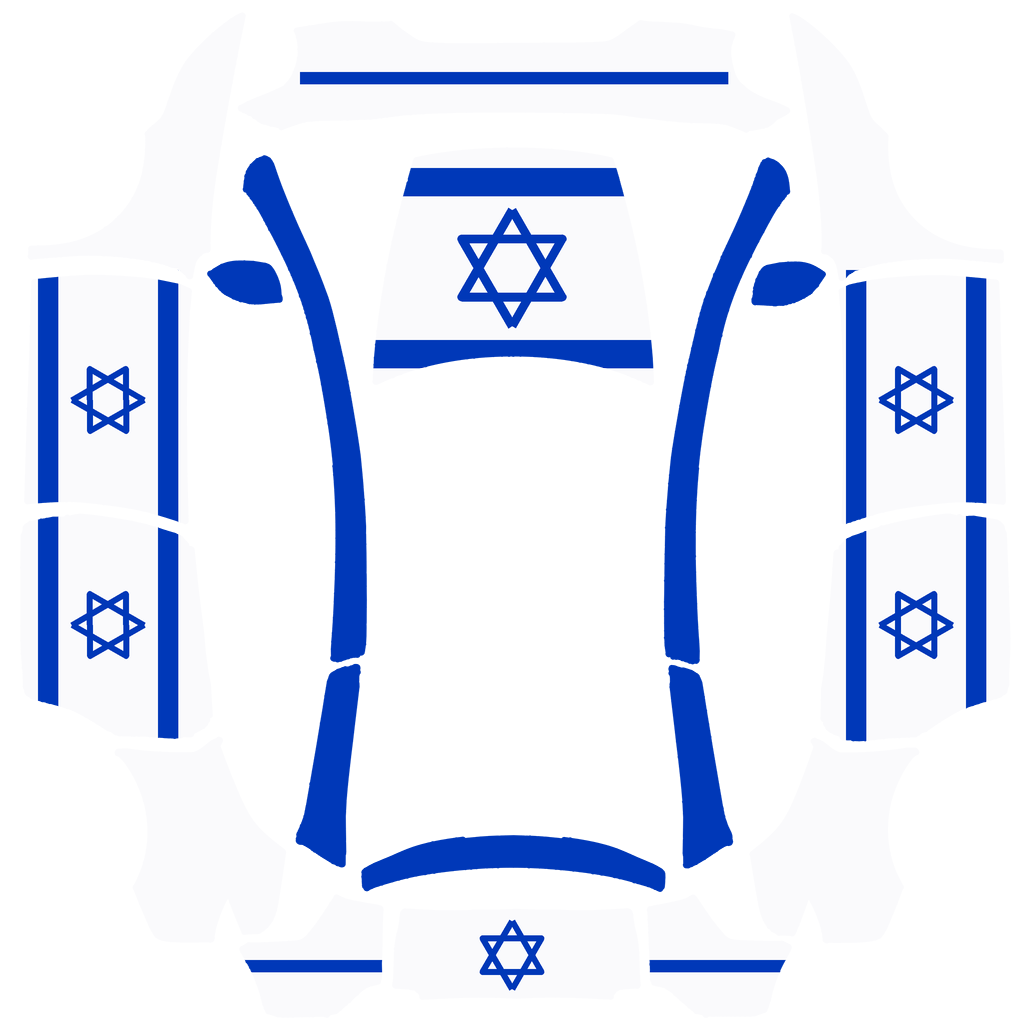
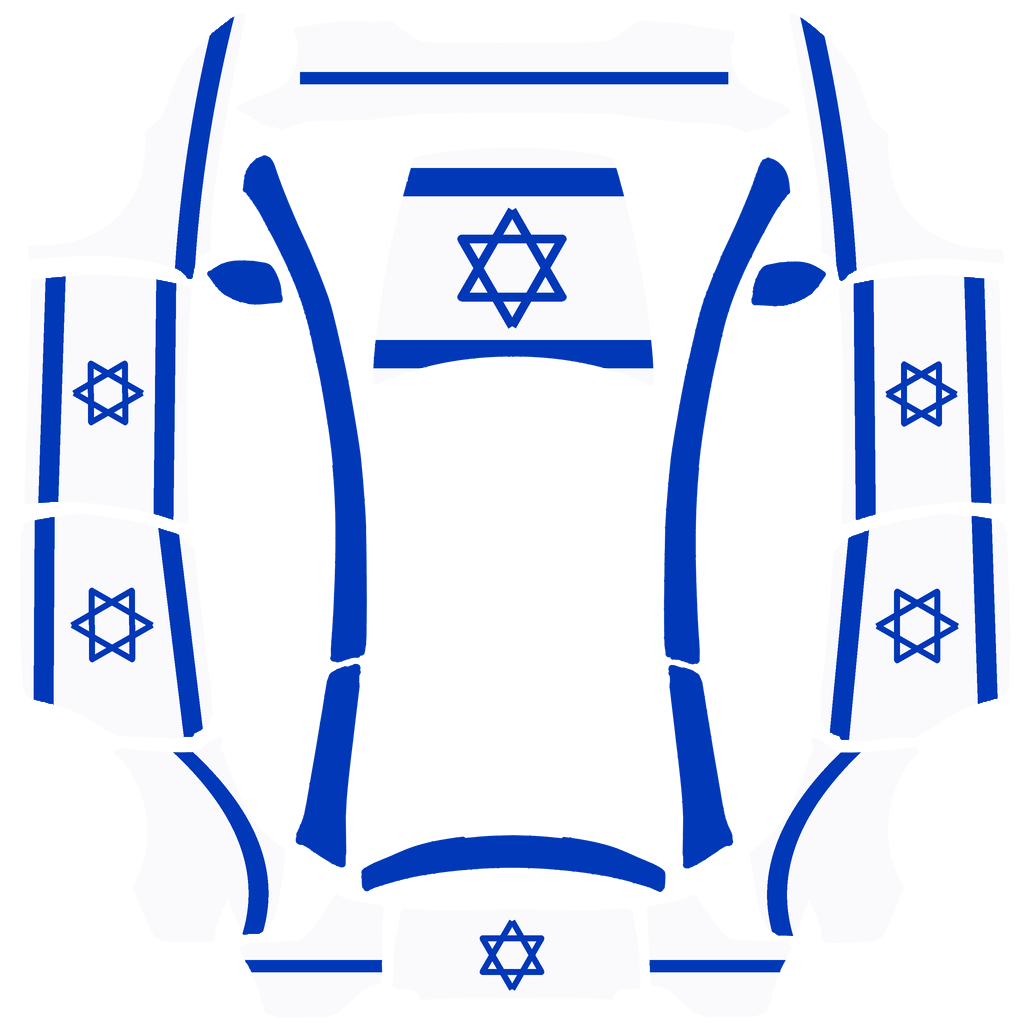
Israel wrap: run side stripes full length and align them with body lines
Claude-Session: https://claude.ai/code/session_01QjhVmvmTN63v33HtuayNfj

diff --git a/scripts/make_israel.py b/scripts/make_israel.py
@@ -38,13 +38,73 @@ magen_david(512, 268, 58, 9)
 # --- Front bumper (top wide panel): thin blue accent stripe --------------
 rect(300, 72, 728, 84)
 
-# --- Doors, both sides: stripes run along the car, star between them -----
-for x_a, x_b, cx in ((38, 58, 108), (966, 986, 916)):
-    # x mirrored for right side
-    for xa, xb in ((x_a, x_b), (x_a + 120 if x_a < 500 else x_a - 120, x_b + 120 if x_a < 500 else x_b - 120)):
-        rect(xa, 270, xb, 745)
-    for cy in (400, 625):     # front door, rear door
-        magen_david(cx, cy, 36, 6, rot=math.pi / 2)
+# --- Sides: two flag stripes running the full length of the car ---------
+# In the template, each side panel's inner edge (toward the sheet centre) is the
+# beltline / hood line and its outer edge is the rocker. Following those edges row
+# by row keeps the stripes parallel to the body lines and lets the upper stripe
+# carry on through the front fender and rear quarter panel.
+from scipy import ndimage
+lab, _ = ndimage.label(alpha > 128)
+lab3 = np.repeat(np.repeat(lab, S, 0), S, 1)
+stripe = np.zeros((H, W), bool)
+TOP_OFF, BOT_OFF, THICK = 12, 14, 20     # px (1024 scale)
+
+def comp(seed):
+    return lab[seed[1], seed[0]]
+
+SIDES = {
+    "left":  dict(fender=(209, 176), doors=[(166, 393), (162, 625)], quarter=(203, 852)),
+    "right": dict(fender=(873, 178), doors=[(872, 394), (945, 626)], quarter=(785, 853)),
+}
+star_spots = []
+for side, parts in SIDES.items():
+    left = side == "left"
+    ids_top = [comp(parts["fender"]), *map(comp, parts["doors"]), comp(parts["quarter"])]
+    ids_bot = list(map(comp, parts["doors"]))
+    def edge_fit(cid, use_inner, deg=2, upto=0.88):
+        """Smooth (quadratic) fit of a panel edge x(y), ignoring the curved ends."""
+        ys = np.where((lab == cid).any(1))[0]
+        y0, y1 = ys.min(), ys.max()
+        core = ys[(ys > y0 + 0.12 * (y1 - y0)) & (ys < y0 + upto * (y1 - y0))]
+        pick_max = (use_inner and left) or (not use_inner and not left)
+        ex = [np.where(lab[y] == cid)[0].max() if pick_max else np.where(lab[y] == cid)[0].min() for y in core]
+        return np.poly1d(np.polyfit(core, ex, deg))
+
+    def paint(cid, fit, off, sign):
+        """sign=-1 paints toward smaller x from the edge, +1 toward larger x."""
+        m = lab3 == cid
+        rows = np.where(m.any(1))[0]
+        xx = np.arange(W)
+        for r in rows:
+            e = fit(r / S) * S
+            if sign < 0:
+                a, b = e - p(off + THICK), e - p(off)
+            else:
+                a, b = e + p(off), e + p(off + THICK)
+            band = (xx >= a) & (xx < b) & m[r]
+            stripe[r, band] = True
+
+    door_ids = set(ids_bot)
+    for cid in ids_top:
+        fit = edge_fit(cid, True, deg=1) if cid in door_ids else edge_fit(cid, True)
+        paint(cid, fit, TOP_OFF, -1 if left else 1)
+    for cid in ids_bot:
+        ys, xs_all = np.where(lab == cid)
+        paint(cid, edge_fit(cid, False, deg=1, upto=0.55), BOT_OFF, 1 if left else -1)
+        # star centred between the two stripes, at the door's middle row
+        cy = int(np.median(ys))
+        row = np.where(lab[cy] == cid)[0]
+        lo, hi = row.min() + BOT_OFF + THICK, row.max() - TOP_OFF - THICK
+        if not left:
+            lo, hi = row.min() + TOP_OFF + THICK, row.max() - BOT_OFF - THICK
+        star_spots.append(((lo + hi) / 2, cy, (hi - lo) / 2 - 12))
+
+arr3 = np.array(img)
+arr3[stripe] = BLUE
+img = Image.fromarray(arr3)
+d = ImageDraw.Draw(img)
+for cx, cy, r in star_spots:
+    magen_david(cx, cy, min(r, 40), 6, rot=math.pi / 2)
 
 # --- Rear spoiler bar: blue; liftgate: star ------------------------------
 magen_david(512, 955, 34, 6)
@@ -55,8 +115,6 @@ rect(648, 960, 794, 972)
 
 img = img.resize((1024, 1024), Image.LANCZOS)
 # Solid-blue panels (pillars/roof rails, mirrors, rear spoiler), picked by connected component
-from scipy import ndimage
-lab, _ = ndimage.label(alpha > 128)
 arr = np.array(img)
 for seed in [(342, 413), (679, 415), (329, 772), (696, 773), (262, 281), (756, 283), (548, 859)]:
     m = ndimage.binary_dilation(lab == lab[seed[1], seed[0]], iterations=2)

diff --git a/README.md b/README.md
@@ -7,7 +7,7 @@ Custom Paint Shop wraps for the **Tesla Model Y L**, built on Tesla's official t
 | Israel Blue & White | Aurora Sweep |
 |---|---|
 | <img src="wraps/Israel_Blue_White.png" width="300"/> | <img src="wraps/Aurora_Sweep.png" width="300"/> |
-| Israel flag colors with Magen David stars on the hood, doors and liftgate; blue pillars, mirrors and spoiler. | Midnight navy with a teal-to-violet glow along the sides and a starfield on the hood. |
+| Israel flag colors: two blue stripes running the full length of each side (fender, doors, rear quarter), Magen David stars on the hood, doors and liftgate; blue pillars, mirrors and spoiler. | Midnight navy with a teal-to-violet glow along the sides and a starfield on the hood. |
 
 Both files are 1024×1024 PNG and under 1 MB, as Tesla requires.
 
